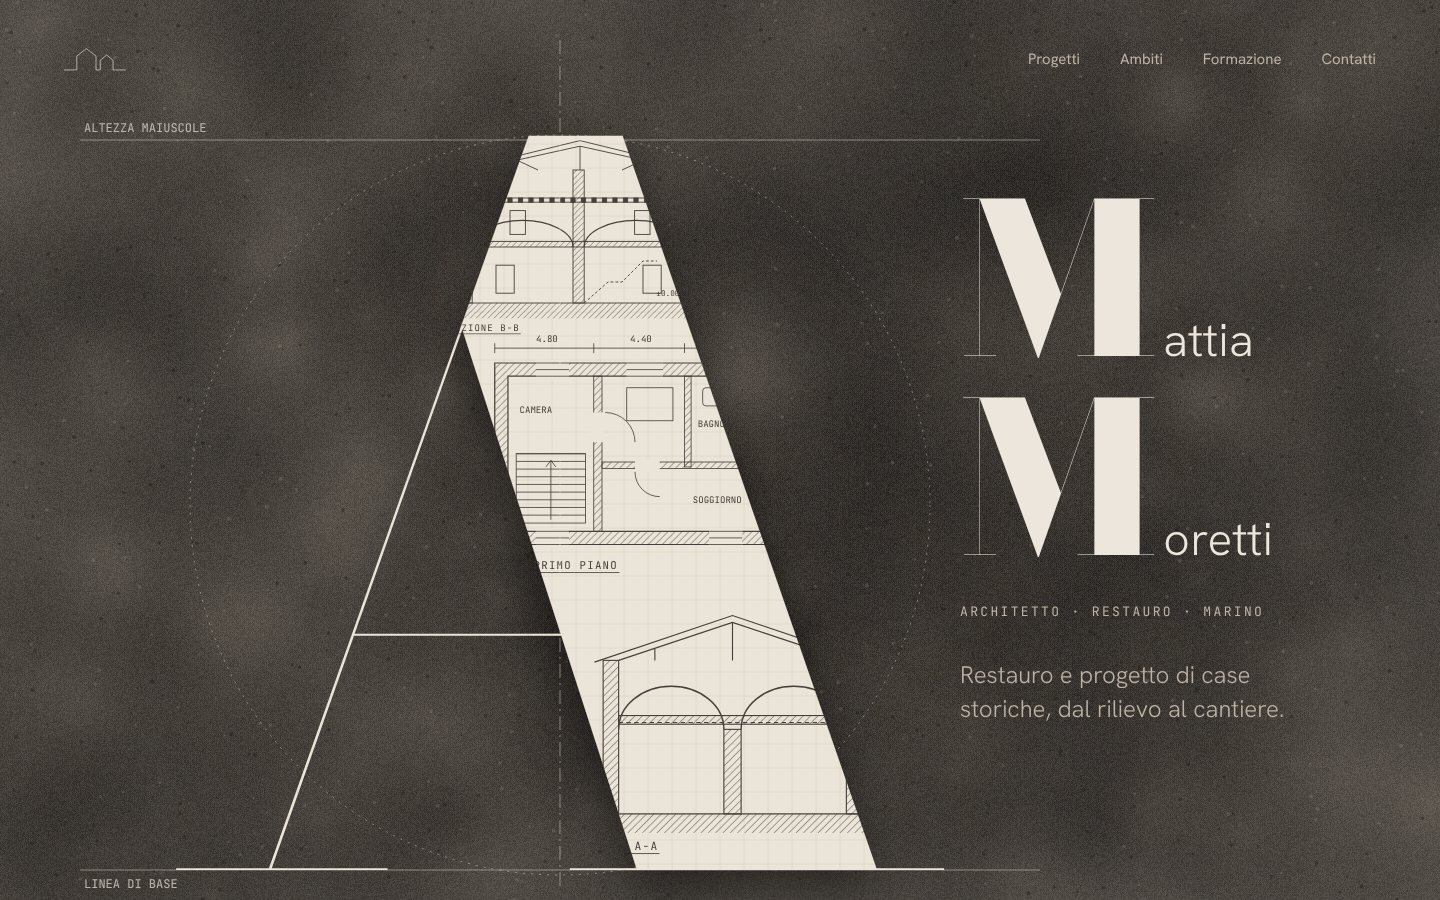
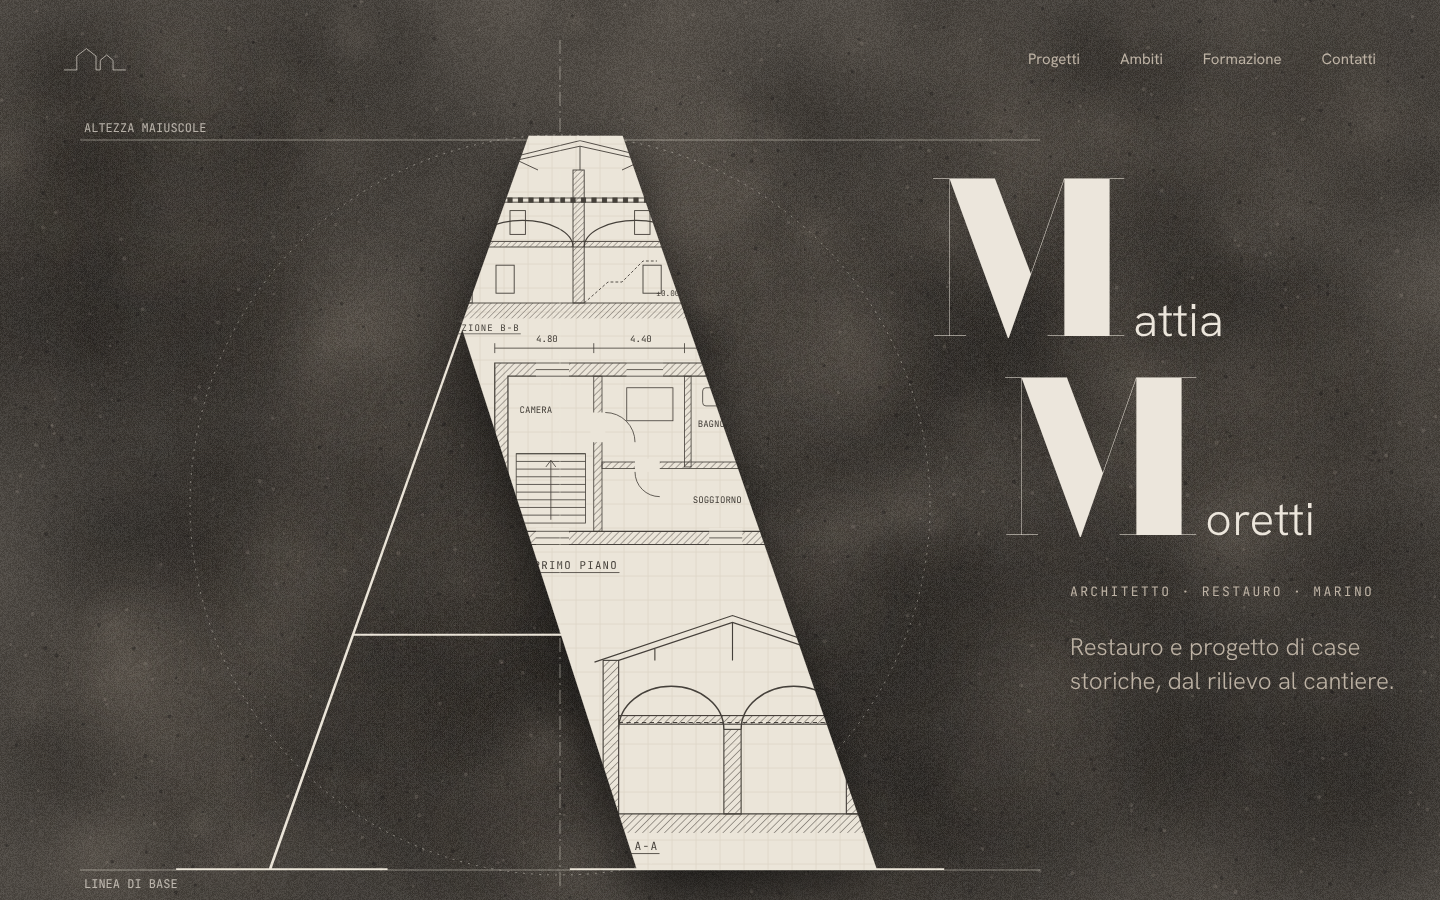
Mattia: M sfalsate lungo la A e 5 loghi MM architetto
Claude-Session: https://claude.ai/code/session_01Xky6Q7DuqUSq6nctH9Hrpt

diff --git a/prototipo-mattia/loghi-mm.html b/prototipo-mattia/loghi-mm.html
@@ -1,0 +1,35 @@
+<!doctype html><meta charset="utf-8">
+<link rel="stylesheet" href="https://fonts.googleapis.com/css2?family=Barlow+Condensed:wght@500;800&family=Big+Shoulders+Display:wght@800&family=Bodoni+Moda:ital,opsz,wght@0,96,900;1,96,500&family=Archivo:wdth,wght@125,300;125,600&family=Hanken+Grotesk:wght@300;400;500&family=JetBrains+Mono:wght@500&family=Antonio:wght@700&display=swap">
+<style>
+:root{--ink:#1d1b19;--brown:#7a4e2c;--card:#f8f6f2;--paper:#efebe4;--muted:#857a6f}
+*{box-sizing:border-box}html,body{margin:0;background:var(--paper);font-family:"Hanken Grotesk";color:var(--ink)}
+.sheet{width:1700px;padding:56px 64px 64px;display:grid;grid-template-columns:repeat(5,1fr);gap:20px}
+h1{grid-column:1/-1;margin:0;font:500 30px "Hanken Grotesk"}.sub{grid-column:1/-1;margin:-8px 0 12px;color:var(--muted);font-size:17px}
+.cell{background:var(--card);height:400px;position:relative;display:grid;place-items:center;padding:30px 20px 80px}
+.n{position:absolute;left:18px;top:14px;font:500 13px "JetBrains Mono";color:var(--muted)}
+.t{position:absolute;left:18px;right:18px;bottom:16px;font:500 15px/1.35 "Hanken Grotesk"}.t span{display:block;color:var(--muted);font-weight:400;font-size:13px}
+/* 1 come MDU */
+.l1{width:max-content}.l1 i{display:block;height:9px;background:var(--brown);margin-bottom:14px}
+.l1 b{display:block;font:800 104px/.82 "Barlow Condensed";color:var(--brown);letter-spacing:-.01em}
+.l1 span{display:block;font:500 40px/1 "Barlow Condensed";color:var(--brown);margin-top:6px}
+/* 2 orizzontale con filetto */
+.l2{display:flex;align-items:center;gap:16px}.l2 b{font:800 92px/.8 "Big Shoulders Display";color:var(--ink)}
+.l2 em{width:2px;height:76px;background:var(--brown)}.l2 span{font:400 22px/1.15 "Hanken Grotesk";color:var(--ink)}
+/* 3 serif come la A */
+.l3{text-align:left}.l3 b{display:block;font:900 110px/.8 "Bodoni Moda";letter-spacing:.03em}
+.l3 span{display:block;font:italic 500 30px "Bodoni Moda";color:var(--brown);margin:8px 0 0 6px}
+/* 4 largo e leggero, centrato */
+.l4{text-align:center;border:1.5px solid var(--ink);padding:26px 30px 22px}.l4 b{display:block;font:300 74px/.9 "Archivo";font-stretch:125%;letter-spacing:.06em}
+.l4 span{display:block;font:600 12px "Archivo";font-stretch:125%;letter-spacing:.5em;margin-top:14px;padding-left:.5em;color:var(--brown)}
+/* 5 verticale */
+.l5{display:flex;align-items:flex-end;gap:10px}.l5 b{font:700 150px/.78 "Antonio";letter-spacing:-.02em;color:var(--ink)}
+.l5 span{writing-mode:vertical-rl;transform:rotate(180deg);font:500 21px "Hanken Grotesk";letter-spacing:.3em;color:var(--brown);margin-bottom:2px}
+</style>
+<div class="sheet" id="mm">
+<h1>MM architetto · 5 versioni</h1><p class="sub">Ispirate al logo di MDU: un blocco di lettere forte e la parola "architetto" che lo accompagna.</p>
+<div class="cell"><span class="n">A</span><div class="l1"><i></i><b>MM</b><span>architetto</span></div><div class="t">Come MDU<span>Barra sopra, MM in bastone stretto e pesante, "architetto" sotto in minuscolo</span></div></div>
+<div class="cell"><span class="n">B</span><div class="l2"><b>MM</b><em></em><span>architetto<br>Marino</span></div><div class="t">In linea<span>Le iniziali e il nome divisi da un filetto marrone, per testate e biglietti</span></div></div>
+<div class="cell"><span class="n">C</span><div class="l3"><b>MM</b><span>architetto</span></div><div class="t">Classico<span>Lo stesso carattere della A in home: il logo e il sito parlano la stessa lingua</span></div></div>
+<div class="cell"><span class="n">D</span><div class="l4"><b>MM</b><span>ARCHITETTO</span></div><div class="t">Largo nel riquadro<span>Lettere larghe e sottili in una cornice, come un cartello di cantiere</span></div></div>
+<div class="cell"><span class="n">E</span><div class="l5"><b>MM</b><span>architetto</span></div><div class="t">Verticale<span>MM altissime, "architetto" che sale lungo il fianco</span></div></div>
+</div>

diff --git a/prototipo-mattia/home-a.html b/prototipo-mattia/home-a.html
@@ -14,13 +14,13 @@ nav{position:absolute;left:64px;right:64px;top:44px;display:flex;justify-content
 .copy h1{margin:0;font:300 54px/1.04 "Hanken Grotesk";letter-spacing:-.025em}
 .copy p{margin:22px 0 0;font-size:18px;line-height:1.5;color:var(--muted)}
 .tag{position:absolute;right:64px;width:380px;bottom:56px;font:400 13px "JetBrains Mono";color:var(--muted);z-index:2}
-.mm{display:none;position:absolute;left:960px;top:190px;z-index:2}
+.mm{display:none;position:absolute;left:930px;top:170px;z-index:2}
 .mm div{display:flex;align-items:baseline;gap:6px;line-height:.86}
 .mm b{font:900 210px/.86 "Bodoni Moda";color:var(--light)}
 .mm span{font:300 46px "Hanken Grotesk";letter-spacing:.01em;color:var(--light)}
-.mm div+div{margin-top:18px}
-.mm p{margin:34px 0 0;font:400 13px "JetBrains Mono";letter-spacing:.18em;color:var(--muted)}
-.mm h2{margin:38px 0 0;font:300 24px/1.4 "Hanken Grotesk";color:var(--muted);max-width:26ch}
+.mm div+div{margin-top:18px;margin-left:72px}
+.mm p{margin:34px 0 0 140px;font:400 13px "JetBrains Mono";letter-spacing:.18em;color:var(--muted)}
+.mm h2{margin:30px 0 0 140px;font:300 24px/1.4 "Hanken Grotesk";color:var(--muted);max-width:26ch}
 body.v4 .copy{display:none}body.v4 .mm{display:block}body.v4 .brand span.nm{display:none}
 </style>
 <canvas id="c" width="1440" height="900"></canvas>
